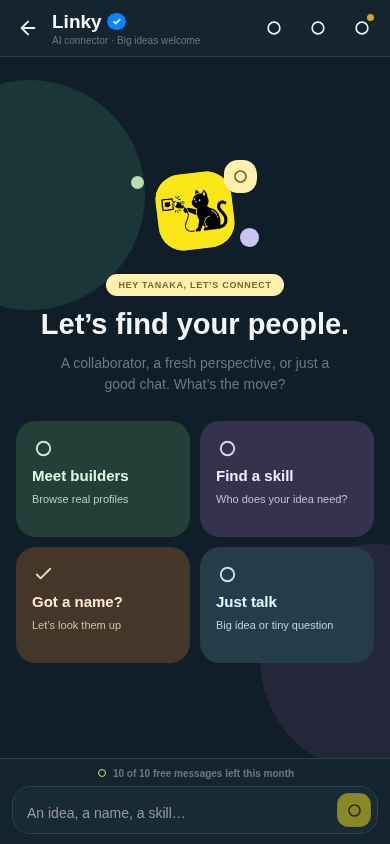
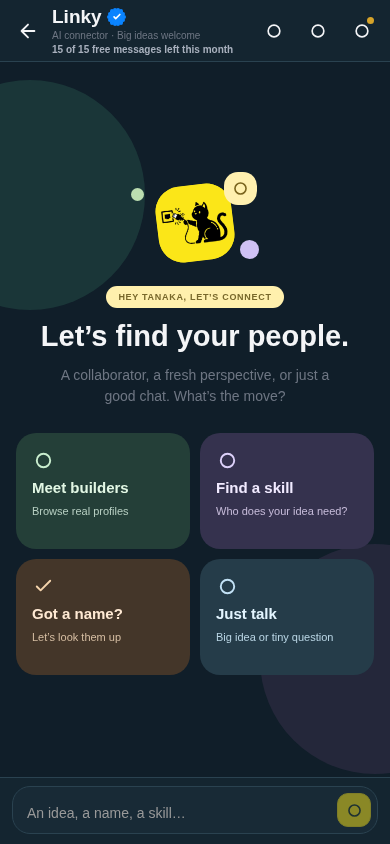
Highlight Linky profile links, move quota to header and allow 15 monthly messages

diff --git a/mobile/src/screens/LinkyHomeScreen.tsx b/mobile/src/screens/LinkyHomeScreen.tsx
@@ -1,3 +1,4 @@
+import LinkyRichText from '../components/LinkyRichText';
 import { linkyShortlist } from '../lib/linkyShortlist';
 import VerifiedBadge from '../components/VerifiedBadge';
 import MemberBadges from '../components/MemberBadges';
@@ -116,7 +117,7 @@ const CardView = ({
       <TouchableOpacity accessibilityRole="button" accessibilityLabel={`Open ${card.targetName}’s profile`} style={styles.cardTop} onPress={onOpen} activeOpacity={0.75}>
         <Avatar uri={card.targetPic} />
         <View style={{ flex: 1 }}>
-          <View style={{ flexDirection: 'row', alignItems: 'center', gap: 6 }}><Text style={[styles.cardName, { color: textColor(isDark), flexShrink: 1 }]} numberOfLines={1}>{card.targetName}</Text><MemberBadges userId={card.targetUid} size={18} /></View>
+          <View style={{ flexDirection: 'row', alignItems: 'center', gap: 6 }}><Text style={[styles.cardName, { color: isDark ? '#9ED8FF' : '#075EA8', backgroundColor: isDark ? '#203F56' : '#E4F1FF', textDecorationLine: 'underline', flexShrink: 1 }]} numberOfLines={1}>{card.targetName}</Text><MemberBadges userId={card.targetUid} size={18} /></View>
           {card.targetRole || card.targetCompany ? (
             <Text style={[styles.cardRole, { color: textColor(isDark, 'secondary') }]} numberOfLines={1}>
               {[card.targetRole, card.targetCompany].filter(Boolean).join(' · ')}
@@ -152,7 +153,7 @@ const CardView = ({
               activeOpacity={0.8}
             >
               <Trophy size={11} color={textColor(isDark, 'secondary')} />
-              <Text style={[styles.badgeText, { color: textColor(isDark, 'secondary') }]} numberOfLines={1}>
+              <Text style={[styles.badgeText, { color: b.url ? (isDark ? '#9ED8FF' : '#075EA8') : textColor(isDark, 'secondary'), textDecorationLine: b.url ? 'underline' : 'none' }]} numberOfLines={1}>
                 {b.label}{b.checked ? '' : ' (their words)'}
               </Text>
             </TouchableOpacity>
@@ -164,7 +165,7 @@ const CardView = ({
       ) : null}
       <View style={[styles.whyBox, { backgroundColor: isDark ? 'rgba(255,255,255,0.05)' : 'rgba(0,0,0,0.04)' }]}>
         <Text style={[styles.whyLabel, { color: textColor(isDark, 'muted') }]}>WHY THIS PERSON</Text>
-        <Text style={[styles.whyText, { color: textColor(isDark) }]}>{card.why}</Text>
+        <LinkyRichText text={card.why} isDark={isDark} profiles={[{name:card.targetName,uid:card.targetUid}]} onProfile={onOpen} style={[styles.whyText, { color: textColor(isDark) }]} />
         {card.unknowns?.length ? <Text style={[styles.forText, { color: textColor(isDark, 'muted') }]}>Still to check: {card.unknowns[0]}</Text> : null}
         <Text style={[styles.forText, { color: textColor(isDark, 'muted') }]} numberOfLines={1}>For: {card.need}</Text>
       </View>
@@ -484,15 +485,17 @@ export default function LinkyHomeScreen({ navigation }: any) {
       const out = await linkyAsk(msg);
       if (user?.uid) void recordReviewAction(user.uid);
       setAnswer(out);
-      setPointerText('');
-      setLeads([]);
-      setPointerRoutes([]);
+      if (out.kind !== 'chat') {
+        setPointerText('');
+        setLeads([]);
+        setPointerRoutes([]);
+      }
       // "yes, look outside LINKUP" -> the LinkedIn leads arrive on the ask
       // itself, so render them the same way the old button did.
-      if (out.leads && out.leads.length) {
+      if (out.kind === 'outside' || out.leads?.length) {
         setPointerText(out.pointerIntro || out.reply || '');
         setPointerRoutes(Array.isArray(out.routes) ? out.routes : []);
-        setLeads(out.leads);
+        setLeads(out.leads || []);
         setPointerMeta({ searches: Number(out.searches || 0), skipped: Number(out.skipped || 0), cached: !!out.cached, place: out.place || '' });
       }
       if (out.thread) setHome((h) => (h ? { ...h, thread: out.thread } : h));
@@ -708,6 +711,8 @@ export default function LinkyHomeScreen({ navigation }: any) {
     setInput(prompt);
     inputRef.current?.focus();
   };
+  const textProfiles = useMemo(()=> (home?.cards || []).filter(c=>['new','saved','meet','accepted'].includes(c.status)).map(c=>({name:c.targetName,uid:c.targetUid})),[home?.cards]);
+  const openProfile = (uid: string) => navigation.navigate('Profile', {userId:uid});
   const firstName = (home?.name || '').split(' ')[0];
   const surface = isDark ? '#182A36' : '#FFFFFF';
   const border = isDark ? '#2A4250' : '#E5E9DF';
@@ -732,6 +737,10 @@ export default function LinkyHomeScreen({ navigation }: any) {
           <Text style={[styles.chatSubtitle, { color: textColor(isDark, 'muted') }]} numberOfLines={1}>
             {home ? 'AI connector · Big ideas welcome' : 'Getting ready…'}
           </Text>
+          {home ? <Text accessibilityLabel="Linky message allowance" accessibilityLiveRegion="polite" style={[styles.allowanceText,{color:textColor(isDark,'secondary'),marginTop:3}]}>
+            {home.plus ? `${asksLeft} messages left today · PLUS` : `${asksLeft} of ${messageLimit} free messages left this month`}
+          </Text> : null}
+          {atMessageLimit && resetCountdown ? <Text style={[styles.allowanceText,{color:textColor(isDark,'muted'),marginTop:2}]}>Resets in {resetCountdown}</Text> : null}
         </View>
         <TouchableOpacity accessibilityRole="button" accessibilityLabel="Preferences & bots" onPress={() => navigation.navigate('LinkySettings')} style={styles.headerIcon}>
           <Settings2 size={20} color={textColor(isDark)} />
@@ -780,14 +789,12 @@ export default function LinkyHomeScreen({ navigation }: any) {
                 <View style={styles.conversation}>
                   {turns.map((t, i) => (t.role === 'user' ? (
                     <View key={`u${t.at}-${i}`} style={[styles.turn, styles.turnUser]}>
-                      <Text style={[styles.turnText, { backgroundColor: isDark ? '#285246' : '#DBF4DC', color: isDark ? '#E6FFEF' : '#183E2C' }]}>
-                        {t.text}
-                      </Text>
+                      <LinkyRichText text={t.text} isDark={isDark} profiles={textProfiles} onProfile={openProfile} style={[styles.turnText, { backgroundColor: isDark ? '#285246' : '#DBF4DC', color: isDark ? '#E6FFEF' : '#183E2C' }]} />
                     </View>
                   ) : (
                     <View key={`l${t.at}-${i}`} style={styles.msgRow}>
                       <BrandMark size={28} style={{borderRadius: 10}} />
-                      <Text style={[styles.turnText, { flexShrink: 1, color: textColor(isDark), backgroundColor: isDark ? '#203744' : '#FFFFFF', borderWidth: 1, borderColor: border }]}>{t.text}</Text>
+                      <LinkyRichText text={t.text} isDark={isDark} profiles={textProfiles} onProfile={openProfile} style={[styles.turnText, { flexShrink: 1, color: textColor(isDark), backgroundColor: isDark ? '#203744' : '#FFFFFF', borderWidth: 1, borderColor: border }]} />
                     </View>
                   )))}
                   {thinking && pendingAsk ? (
@@ -828,11 +835,11 @@ export default function LinkyHomeScreen({ navigation }: any) {
                   {!thinking && (pointerText || leads.length) ? (
                     <View style={[styles.whyBox, { backgroundColor: isDark ? 'rgba(255,255,255,0.05)' : 'rgba(0,0,0,0.04)' }]}>
                         <Text style={[styles.whyLabel, { color: textColor(isDark, 'muted') }]}>OUTSIDE LINKUP</Text>
-                        <Text style={[styles.whyText, { color: textColor(isDark) }]}>{pointerText}</Text>
+                        <LinkyRichText text={pointerText} isDark={isDark} style={[styles.whyText, { color: textColor(isDark) }]} />
                         {pointerRoutes.length ? (
                           <View style={{ marginTop: 8, gap: 6 }}>
                             {pointerRoutes.map((rt, i) => (
-                              <Text key={'r' + i} style={[styles.leadLine, { color: textColor(isDark, 'secondary') }]}>{i + 1}) {rt}</Text>
+                              <LinkyRichText key={'r' + i} text={`${i + 1}) ${rt}`} isDark={isDark} style={[styles.leadLine, { color: textColor(isDark, 'secondary') }]} />
                             ))}
                           </View>
                         ) : null}
@@ -841,7 +848,7 @@ export default function LinkyHomeScreen({ navigation }: any) {
                             {leads.map((l, i) => (
                               <View key={l.url + '-' + i} style={[styles.lead, { borderColor: border }]}>
                                 <View style={{ flex: 1, gap: 2 }}>
-                                  <Text style={[styles.nearestName, { color: textColor(isDark) }]} numberOfLines={1}>{l.name}</Text>
+                                  <LinkyRichText text={`[${l.name}](${l.url})`} isDark={isDark} style={styles.nearestName} />
                                   {l.title ? <Text style={[styles.nearestMeta, { color: textColor(isDark, 'secondary') }]} numberOfLines={2}>{l.title}</Text> : null}
                                   {l.why ? <Text style={[styles.nearestMeta, { color: textColor(isDark, 'muted') }]} numberOfLines={2}>{l.why}</Text> : null}
                                   {l.proof && l.proof.length ? (
@@ -849,14 +856,11 @@ export default function LinkyHomeScreen({ navigation }: any) {
                                       {`Proof: ${l.proof.slice(0, 2).map((b) => b.label).join(' - ')}`}
                                     </Text>
                                   ) : null}
-                                  <Text style={[styles.leadUrl, { color: textColor(isDark, 'muted') }]} numberOfLines={1}>
-                                    {l.resolved === false ? 'no direct link - opens a search: ' : ''}
-                                    {l.url.replace(/^https?:\/\//, '').replace(/\/$/, '')}
-                                  </Text>
+                                  <LinkyRichText text={l.url} isDark={isDark} style={styles.leadUrl} />
                                   <View style={{ flexDirection: 'row', gap: 8, marginTop: 6, flexWrap: 'wrap' }}>
-                                    <TouchableOpacity style={[styles.leadBtn, { borderColor: border }]} onPress={() => { Linking.openURL(l.url).catch(() => notifyUser('Could not open that link', 'Copy it from a browser instead.')); }} activeOpacity={0.75}>
+                                    <TouchableOpacity accessibilityRole="link" accessibilityLabel={`Open ${l.name} on LinkedIn`} style={[styles.leadBtn, { borderColor: border, backgroundColor: isDark ? '#203F56' : '#E4F1FF' }]} onPress={() => { Linking.openURL(l.url).catch(() => notifyUser('Could not open that link', 'Copy it from a browser instead.')); }} activeOpacity={0.75}>
                                       <Link2 size={12} color={textColor(isDark, 'secondary')} />
-                                      <Text style={[styles.leadBtnText, { color: textColor(isDark) }]}>Profile</Text>
+                                      <Text style={[styles.leadBtnText, { color: textColor(isDark) }]}>Open LinkedIn profile ↗</Text>
                                     </TouchableOpacity>
                                     <TouchableOpacity style={[styles.leadBtn, { backgroundColor: isDark ? 'rgba(223,251,63,0.14)' : 'rgba(223,251,63,0.24)' }]} onPress={() => openLeadDraft(l, i + 1)} disabled={!!leadBusy} activeOpacity={0.8}>
                                       <Send size={12} color={textColor(isDark)} />
@@ -899,6 +903,8 @@ export default function LinkyHomeScreen({ navigation }: any) {
                   <View style={[styles.noMatchCard,{backgroundColor:isDark?'#25352D':'#F2F7E7',borderColor:border}]}>
                     <Text style={[styles.cardName,{color:textColor(isDark)}]}>No solid match yet</Text>
                     <Text style={[styles.welcomeSub,{color:textColor(isDark,'secondary'),textAlign:'left',marginTop:6}]}>I won’t fill the gap with random people. Tweak the search, or choose to browse the network.</Text>
+                    <Text style={[styles.welcomeSub,{color:textColor(isDark,'secondary'),textAlign:'left',marginTop:8}]}>Want me to search public LinkedIn profiles for this person or skill? I’ll only search after you choose below.</Text>
+                    <TouchableOpacity accessibilityRole="button" accessibilityLabel="Yes, search LinkedIn" onPress={()=>send('yes, search LinkedIn')} style={[styles.ghostBtn,{alignSelf:'flex-start',marginTop:12,backgroundColor:'#E4F1FF',borderColor:'#B9D9F4'}]}><Link2 size={15} color="#075EA8" /><Text style={[styles.ghostBtnText,{color:'#075EA8'}]}>Yes, search LinkedIn ↗</Text></TouchableOpacity>
                     <View style={{flexDirection:'row',flexWrap:'wrap',gap:8,marginTop:12}}>
                       <TouchableOpacity accessibilityRole="button" accessibilityLabel="Edit this search" onPress={()=>prepareInput(answer.need)} style={[styles.ghostBtn,{borderColor:border}]}><Text style={[styles.ghostBtnText,{color:textColor(isDark)}]}>Edit search</Text></TouchableOpacity>
                       <TouchableOpacity accessibilityRole="button" accessibilityLabel="Browse builders" onPress={()=>send('show me profiles')} style={[styles.ghostBtn,{backgroundColor:'#FBE618',borderColor:'#E5D31B'}]}><Text style={[styles.ghostBtnText,{color:'#243A2E'}]}>Browse builders</Text></TouchableOpacity>
@@ -970,14 +976,6 @@ export default function LinkyHomeScreen({ navigation }: any) {
         backgroundColor: isDark ? '#142530' : '#FFFDF6',
         borderTopColor: border,
       }]}>
-        {home && !atMessageLimit ? (
-          <View style={styles.allowanceRow}><Sparkles size={12} color={isDark?'#E2D67A':'#7D7226'} /><Text style={[styles.allowanceText,{color:textColor(isDark,'muted')}]}>{home.plus ? `${asksLeft} messages left today · PLUS` : `${asksLeft} of ${messageLimit} free messages left this month`}</Text></View>
-        ) : null}
-        {atMessageLimit && resetCountdown ? (
-          <Text style={[styles.resetLine, { color: textColor(isDark, 'muted') }]}>
-            Your 10 free monthly messages are used up — resets in {resetCountdown}.
-          </Text>
-        ) : null}
         <View style={[styles.composer, { backgroundColor: surface, borderColor: border }]}>
           <TextInput
             ref={inputRef}
@@ -1156,7 +1154,6 @@ const styles = StyleSheet.create({
   starterTile: { width: '48%', flexGrow: 1, borderRadius: 20, padding: 16, minHeight: 116, gap: 7 },
   starterTitle: { fontSize: 15, fontWeight: '800' },
   starterSub: { fontSize: 11, lineHeight: 16 },
-  allowanceRow: { flexDirection: 'row', alignItems: 'center', justifyContent: 'center', gap: 5, marginBottom: 7 },
   allowanceText: { fontSize: 10, fontWeight: '600' },
   resultHeading: { flexDirection: 'row', alignItems: 'center', justifyContent: 'space-between', gap: 8, marginBottom: 10, marginTop: 10 },
   resultCount: { flexDirection: 'row', alignItems: 'center', gap: 5, borderRadius: 16, paddingHorizontal: 10, paddingVertical: 6, backgroundColor: '#E2F3DC' },

diff --git a/api/_linky.js b/api/_linky.js
@@ -1205,7 +1205,7 @@ function plainReply(kind, d = {}) {
       return `A squad - not three searches.\n${squads.map(one).join('\n')}${d.channel && d.channel !== 'app' ? '\n\nReply meet squad and I will ask all of them at once - each one still gets to say yes.' : '\n\nTap Meet squad and I will ask all of them at once - each one still gets to say yes.'}`;
     }
     case 'loop': return loopQuestionText((d.other_person && d.other_person.name) || 'them', d.what_the_intro_was_for, d.they_have_messaged);
-    case 'limit': return 'Your Linky message allowance has been used. Free accounts receive 10 messages per calendar month; PLUS includes 60 messages per day.';
+    case 'limit': return 'Your Linky message allowance has been used. Free accounts receive 15 messages per calendar month; PLUS includes 60 messages per day.';
     case 'draft': return d.ready_message || 'Specify the recipient and collaboration purpose. I can prepare a draft for you to review and send from your own account.';
     default: return 'Describe the professional role, skill, location, or name you want to find. I can review available profiles and explain relevant recommendations.';
   }
@@ -1342,7 +1342,7 @@ export async function pointers(uid, need, { userDoc, allowSearch = true, assumeK
   // p2: the shape changed (intro + routes + leads instead of one long sentence),
   // so an answer written by the old code is not read at all. The search itself is
   // still served from _serpapi's 7-day result cache, so this costs no credit.
-  const ref = db().collection('linkyCache').doc(cacheKey('p6-evidence', `${uid}|${q.need}|${profileFacts(user)?.city || ''}|${profileFacts(user)?.country || ''}`));
+  const ref = db().collection('linkyCache').doc(cacheKey('p7-linked-profiles', `${uid}|${q.need}|${profileFacts(user)?.city || ''}|${profileFacts(user)?.country || ''}`));
   const snap = await ref.get().catch(() => null);
   const me = profileFacts(user) || {};
   const place = q.location || [me.city, me.country].filter(Boolean).join(', ') || 'Zimbabwe';
@@ -1353,6 +1353,7 @@ export async function pointers(uid, need, { userDoc, allowSearch = true, assumeK
   const state2 = state;
   const trail0 = outreachTrail(state2);
   if (snap?.exists && snap.data().intro && Array.isArray(snap.data().leads)
+    && (snap.data().leads.length || snap.data().searches > 0)
     && Date.now() - toMillis(snap.data().createdAt) < 7 * DAY_MS) {
     const d = snap.data();
     // re-filtered on the way out, so a lead the member already wrote to (or told
@@ -1403,8 +1404,9 @@ export async function pointers(uid, need, { userDoc, allowSearch = true, assumeK
   // The list of people is NOT baked into this prose any more. The app renders
   // rows and the bot renders buttons; every surface that used to print the same
   // five names twice, once in a paragraph and once as links, stopped doing it.
-  const fresh = (outreach.leads || []).filter((l) => l && safeLinkedinProfile(l.url) && !leadHit(leadKey(l), trail0.muted) && !leadHit(leadKey(l), trail0.sent));
-  const skipped = (outreach.leads || []).length - fresh.length;
+  const qualified = (outreach.leads || []).filter(l => l && safeLinkedinProfile(l.url) && assessPublicLead(q.need,l).eligible);
+  const fresh = qualified.filter(l => !leadHit(leadKey(l), trail0.muted) && !leadHit(leadKey(l), trail0.sent));
+  const skipped = qualified.length - fresh.length;
   // the key travels with the lead: it is what a "not interested" or "sent" refers
   // back to on any surface, and what makes the same person stick next time
   const leads = fresh.slice(0, plus ? 8 : 5).map((l) => ({ ...l, key: leadKey(l) }));
@@ -1440,7 +1442,8 @@ export async function pointers(uid, need, { userDoc, allowSearch = true, assumeK
     lastLeadsAt: Date.now(), lastLeadsNeed: q.need,
   }).catch(() => {});
   const rendered = renderPointers({ intro, routes, leads });
-  await ref.set({
+  // Configuration/budget/network failures must not suppress retries for seven days.
+  if (leads.length || outreach.searches > 0) await ref.set({
     need: q.need, place: text(place, 60), intro, routes: routes || [], leads,
     searches: outreach.searches || 0, profileFilter: outreach.query || '', createdAt: Date.now(),
   }).catch(() => {});

diff --git a/mobile/src/lib/linkyText.ts b/mobile/src/lib/linkyText.ts
@@ -1,0 +1,56 @@
+export type LinkyTextProfile = {name: string; uid: string};
+export type LinkyTextPart = {text: string; url?: string; uid?: string};
+
+// Only explicit web URLs can be opened. Never execute model-produced schemes.
+export function linkyWebUrl(value: string): string {
+  try {
+    const url = new URL(value.startsWith('www.') ? `https://${value}` : value);
+    return ['https:', 'http:'].includes(url.protocol) && url.hostname && !url.username && !url.password ? url.href : '';
+  } catch { return ''; }
+}
+const escape = (value: string) => value.replace(/[.*+?^${}()|[\]\\]/g, '\\$&');
+const word = (value: string) => !!value && /[\p{L}\p{N}_]/u.test(value);
+export function linkyTextParts(text: string, profiles: LinkyTextProfile[] = []): LinkyTextPart[] {
+  const parts: LinkyTextPart[] = [];
+  const names = new Map<string, LinkyTextProfile | null>();
+  for (const profile of profiles) {
+    const key = profile.name.trim().toLowerCase();
+    if (!key || !profile.uid) continue;
+    if (names.has(key) && names.get(key)?.uid !== profile.uid) names.set(key, null);
+    else if (!names.has(key)) names.set(key, profile);
+  }
+  const usable = [...names].filter(([,p])=>p).map(([name])=>name).sort((a,b)=>b.length-a.length);
+  const namePattern = usable.length ? new RegExp(usable.map(escape).join('|'), 'giu') : null;
+  const plain = (value: string) => {
+    if (!namePattern) { if(value)parts.push({text:value}); return; }
+    namePattern.lastIndex = 0;
+    let cursor = 0;
+    for (const match of value.matchAll(namePattern)) {
+      const index = match.index!;
+      if (word(value[index-1]) || word(value[index+match[0].length])) continue;
+      if (index>cursor)parts.push({text:value.slice(cursor,index)});
+      parts.push({text:match[0],uid:names.get(match[0].toLowerCase())!.uid});
+      cursor=index+match[0].length;
+    }
+    if(cursor<value.length)parts.push({text:value.slice(cursor)});
+  };
+  // Recognise markdown links as well as ordinary pasted URLs; text stays Text,
+  // not HTML. URLs are handled before names so a name cannot corrupt a link.
+  const links = /\[([^\]\n]+)\]\(((?:https?:\/\/|www\.)[^\s<>]+?)\)|(?:https?:\/\/|www\.)[^\s<>"']+/giu;
+  let cursor=0;
+  for (const match of text.matchAll(links)) {
+    const index=match.index!;
+    plain(text.slice(cursor,index));
+    let raw=match[2] || match[0];
+    let tail='';
+    if(!match[2]) {
+      while(/[.,!?;:]$/.test(raw) || (raw.endsWith(')') && (raw.match(/\)/g)||[]).length>(raw.match(/\(/g)||[]).length) || /[\]}]$/.test(raw)) {tail=raw.slice(-1)+tail;raw=raw.slice(0,-1);}
+    }
+    const url=linkyWebUrl(raw);
+    if(url)parts.push({text:match[1] || raw,url});else plain(match[0]);
+    if(url && tail)plain(tail);
+    cursor=index+match[0].length;
+  }
+  plain(text.slice(cursor));
+  return parts;
+}

diff --git a/api/_linkyUsage.js b/api/_linkyUsage.js
@@ -1,6 +1,6 @@
 // Server-only, transactional allowance shared by app, Telegram and WhatsApp.
 // Kept outside linkyState so Clear chat / Forget cannot refill credits.
-export const MESSAGE_LIMITS = Object.freeze({ freePerMonth: 10, plusPerDay: 60 });
+export const MESSAGE_LIMITS = Object.freeze({ freePerMonth: 15, plusPerDay: 60 });
 export const monthKey = (now = Date.now()) => new Date(now).toISOString().slice(0, 7);
 export const dayKey = (now = Date.now()) => new Date(now).toISOString().slice(0, 10);
 export function nextResetAt(plus, now = Date.now()) {
@@ -24,7 +24,7 @@ export function messageQuota(usage = {}, { plus = false, now = Date.now(), legac
 }
 export function quotaMessage(quota) {
   return quota.period === 'month'
-    ? 'You have used all 10 free Linky messages for this calendar month. Upgrade to LINKUP PLUS to continue, or wait until your monthly allowance resets.'
+    ? 'You have used all 15 free Linky messages for this calendar month. Upgrade to LINKUP PLUS to continue, or wait until your monthly allowance resets.'
     : 'You have used your 60 Linky messages for today. Your PLUS allowance resets at midnight UTC.';
 }
 export async function readMessageQuota(database, uid, options) {

diff --git a/mobile/src/components/PaywallModal.tsx b/mobile/src/components/PaywallModal.tsx
@@ -470,7 +470,7 @@ export default function PaywallModal({
 
             <Text style={[styles.title, { color: textColor(isDark) }]}>Expand your professional networking tools</Text>
             <Text style={[styles.copy, { color: textColor(isDark, 'secondary') }]}>
-              {description || 'Free members receive 10 Linky messages per calendar month and limited professional discovery every 12 hours. LINKUP PLUS unlocks unlimited discovery, smarter AI recommendations, and premium tools to help you find the right co-founder, developer, designer, or investor faster.'}
+              {description || 'Free members receive 15 Linky messages per calendar month and limited professional discovery every 12 hours. LINKUP PLUS unlocks unlimited discovery, smarter AI recommendations, and premium tools to help you find the right co-founder, developer, designer, or investor faster.'}
             </Text>
             <View style={[styles.featurePill, { backgroundColor: isDark ? COLORS.darkBg : COLORS.lightCard, borderColor: isDark ? COLORS.darkBorder : COLORS.lightBorder }]}> 
               <Text style={[styles.feature, { color: textColor(isDark) }]}>{feature}</Text>

diff --git a/mobile/src/components/LinkyRichText.tsx b/mobile/src/components/LinkyRichText.tsx
@@ -1,0 +1,16 @@
+import React, {useMemo} from 'react';
+import {Linking, Text, TextProps} from 'react-native';
+import {linkyTextParts, LinkyTextProfile} from '../lib/linkyText';
+import {notifyUser} from '../lib/notify';
+
+type Props = TextProps & {text: string; isDark: boolean; profiles?: LinkyTextProfile[]; onProfile?: (uid: string)=>void};
+export default function LinkyRichText({text,isDark,profiles,onProfile,...props}: Props) {
+  const parts=useMemo(()=>linkyTextParts(text,profiles),[text,profiles]);
+  return <Text {...props} selectable>{parts.map((part,i)=>part.url || (part.uid && onProfile) ? (
+    <Text key={i} accessibilityRole="link" accessibilityLabel={part.uid ? `Open ${part.text}’s profile` : `Open link: ${part.text}`}
+      style={{color:isDark?'#9ED8FF':'#075EA8',backgroundColor:isDark?'#203F56':'#E4F1FF',fontWeight:'800',textDecorationLine:'underline'}}
+      onPress={()=>part.uid && onProfile ? onProfile(part.uid) : part.url ? void Linking.openURL(part.url).catch(()=>notifyUser('Could not open that link','Please copy the link and open it in your browser.')) : undefined}>
+      {part.text}
+    </Text>
+  ) : part.text)}</Text>;
+}

diff --git a/mobile/src/lib/linkyQuota.ts b/mobile/src/lib/linkyQuota.ts
@@ -1,6 +1,6 @@
 import type { LinkyHome, LinkyMessageQuota } from './linkyApi';
 
-export const FREE_LINKY_LIMIT_MESSAGE = 'You have used all 10 free Linky messages for this calendar month. Upgrade to LINKUP PLUS to continue, or wait until your monthly allowance resets.';
+export const FREE_LINKY_LIMIT_MESSAGE = 'You have used all 15 free Linky messages for this calendar month. Upgrade to LINKUP PLUS to continue, or wait until your monthly allowance resets.';
 
 export function quotaFromHome(home: LinkyHome): LinkyMessageQuota {
   if (home.messageQuota) return home.messageQuota;

diff --git a/mobile/src/lib/linkyApi.ts b/mobile/src/lib/linkyApi.ts
@@ -81,7 +81,7 @@ export type LinkyAsk = {
   reply: string;
   /** What the answer was, so the UI can dress it: search, a name, chit-chat. */
   /** `check` = Linky asked before searching; answer it with yes / no. */
-  kind?: 'found' | 'close' | 'none' | 'person' | 'ambiguous' | 'chat' | 'draft' | 'check' | 'squad';
+  kind?: 'found' | 'close' | 'none' | 'person' | 'ambiguous' | 'chat' | 'draft' | 'check' | 'squad' | 'outside';
   askingFirst?: boolean;
   /** What decided the turn - `ai:chat` (the model) or `words:chat` (offline lists). */
   intent?: string;

diff --git a/FULLSCREEN_LINKY_AND_GOLD.md b/FULLSCREEN_LINKY_AND_GOLD.md
@@ -19,11 +19,11 @@
 - The composer stays pinned to the bottom, with measured clearance and no obsolete tab-bar offset on Android.
 - Introduction requests, pending drafts, follow-ups, clear-chat and tone/search tools remain accessible in the Activity panel rather than occupying the message area.
 - All retained server thread turns are rendered (up to the server's existing 24-turn cap); restored chat opens at the latest turn. Empty-state suggestions do not reappear underneath restored chat history.
-- The 10/month free and 60/day PLUS quotas, exhaustion paywall, privacy gates and introduction approval behavior are unchanged.
+- The 15/month free and 60/day PLUS quotas, exhaustion paywall, privacy gates and introduction approval behavior are unchanged.
 
 ## Validation
 
-- **118/118 automated tests pass**, zero skipped, including profile-browse, location-only discovery, explicit-search intent priority, shortlist rendering/privacy and identity regressions.
+- **126/126 automated tests pass**, zero skipped, including profile-browse, location-only discovery, explicit-search intent priority, shortlist rendering/privacy and identity regressions.
 - TypeScript passes.
 - Production web export passes.
 - Android JavaScript/Hermes export passes; this is **not a signed APK/AAB or native store release**.
@@ -54,3 +54,13 @@ Reproduced and fixed: `show me profiles` incorrectly became a requirement for th
 The screen now separates conversation from the last shortlist, handles card responses without IDs, source-refreshes after chat, hides removed cards and clears the displayed shortlist on a genuine no-match. Cards have an explicit View profile affordance and accessible profile navigation. A mint/lavender/cream welcome, playful mascot, four starter tiles, warm conversation bubbles, a yellow send button and dark-mode counterparts replace the empty, flat layout. Meet builders explicitly browses profiles; skill/name tiles prefill the composer without consuming a message. A blue verification check is immediately beside Linky in the compact header. Quotas, the dedicated full-screen layout and owner-only badge entitlement remain unchanged.
 
 All validation above was performed locally against this update. Backend tests execute the actual API core with an in-memory database; UI tests render the actual screen with mocked auth/API/navigation. They do not prove signed-in production behavior. Deployment is not verified until the updated commit is pushed and the production workflow/live assets are checked. Installed apps still need a native release.
+
+
+## Highlighted links, top counter and confirmed LinkedIn search
+
+- Free allowance is now **15 messages per UTC calendar month** across app, Telegram and WhatsApp; PLUS remains 60/day. Existing usage is preserved, so a member who used 10 has five remaining, not a reset to 15. Paywall, backend/client error wording and store-listing source copy are aligned.
+- The remaining-message counter sits directly beneath “AI connector · Big ideas welcome” in the header, including zero remaining and the reset countdown. It no longer occupies the composer area.
+- `LinkyRichText` / `linkyTextParts` highlight known, unambiguous member mentions and make them open the relevant in-app profile. Web URLs, www links and markdown links are highlighted, underlined, selectable and tappable. Only HTTP(S) URLs without embedded credentials can open; unknown or ambiguous member names do not acquire invented profile links. Structured result-card names and linked proof badges are highlighted too.
+- The user explicitly chose **ask before searching LinkedIn**. No-match cards now offer “Yes, search LinkedIn”; confirmation uses the existing search pipeline and returns evidence-filtered, direct public LinkedIn profile URLs, not fabricated search results. Lead names, URLs and Open LinkedIn profile actions are tappable, and external links survive a subsequent chat reply. Unavailable external searches remain retryable rather than cached as empty for seven days. Unavailable and empty results are displayed honestly, including when there are no lead cards.
+- New unit/integration regressions cover transactional 15-message limits, existing-use preservation, link parsing/safe protocols/ambiguous names, no provider call before consent, confirmation with the original role/location, direct profile URLs, declining, unavailable search and retry recovery. The actual-screen browser fixture additionally checks top-counter geometry, profile mentions, external-link clicks, confirmed search, lead-link clicks and preservation after chat. `linky-linkedin-links-390.png` is an isolated mock-provider fixture, not evidence of a live provider query.
+- 126 tests, TypeScript, web export, Android Hermes export, root/subpath browser mounts and isolated-screen browser checks passed. This is not a signed native release or a store submission, and no signed-in production search was performed during local validation.

diff --git a/LINKY_LIMITS_AND_REVIEWS.md b/LINKY_LIMITS_AND_REVIEWS.md
@@ -6,7 +6,7 @@ Implementation handoff — 16 October 2026.
 
 The user selected **free members only** for the new Linky allowance.
 
-- Free accounts: **10 Linky messages per UTC calendar month**.
+- Free accounts: **15 Linky messages per UTC calendar month**.
 - PLUS: **60 Linky messages per UTC day**, unchanged. Meet limits, prices, billing products, and entitlements are not changed.
 - The tenth successful message is delivered. The shared Android/web UI then opens the PLUS paywall immediately; no eleventh send is required.
 - At exhaustion, entering the Linky screen also opens the paywall. Dismissing it leaves the last response readable but does not restore messages. Further send attempts reopen the paywall without sending another request.
@@ -70,3 +70,8 @@ A separate **Settings & Preferences → Rate LINKUP** button on Android opens th
 - [Testing in-app reviews](https://developer.android.com/guide/playcore/in-app-review/test): use eligible accounts and supported test distribution.
 
 The backend/web deployment and Android/Play Store releases are separate. Check the GitHub production workflow and deployed build identifier for web rollout status; do not interpret a repository push as an Android publication.
+
+
+### Allowance increase
+
+The free limit is now 15/month, preserving the existing UTC-month ledger count. A member at 10 used receives five additional messages, not a new 15-message bucket. PLUS remains 60/day. The counter appears in the Linky header directly after “Big ideas welcome.”
